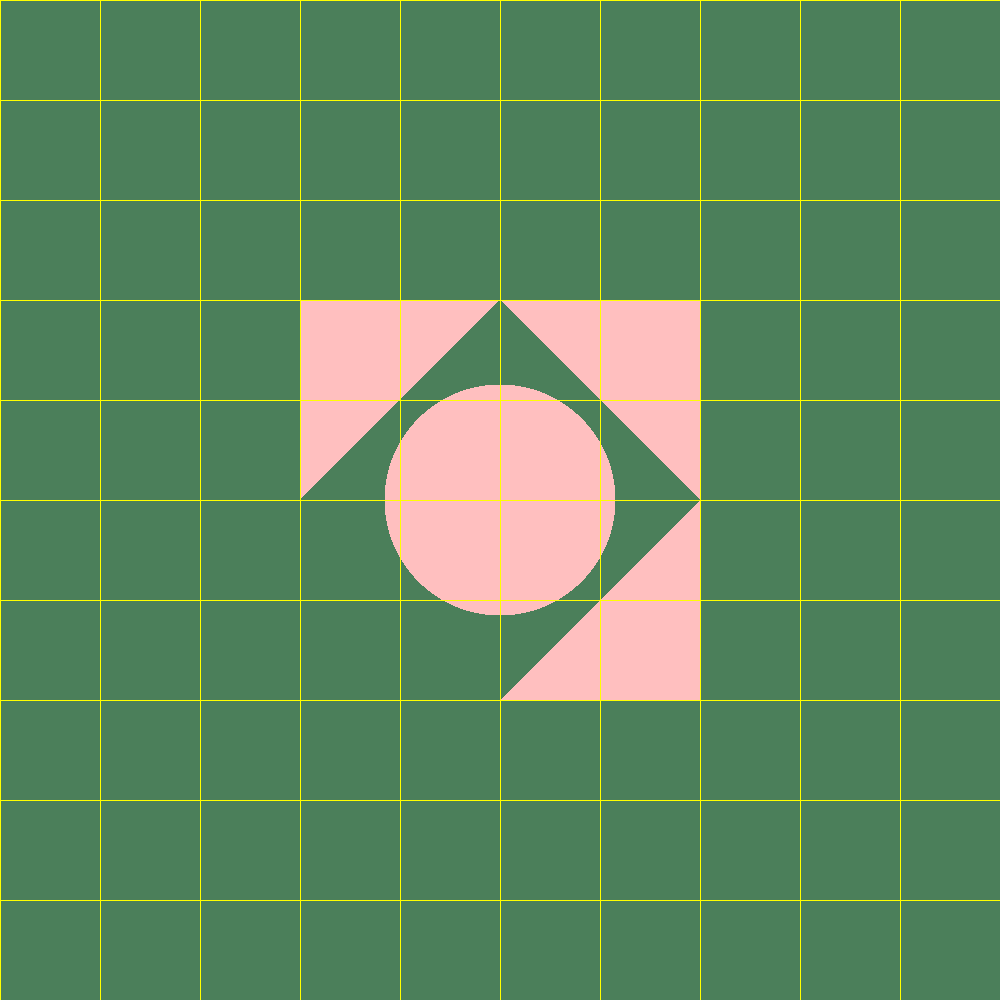
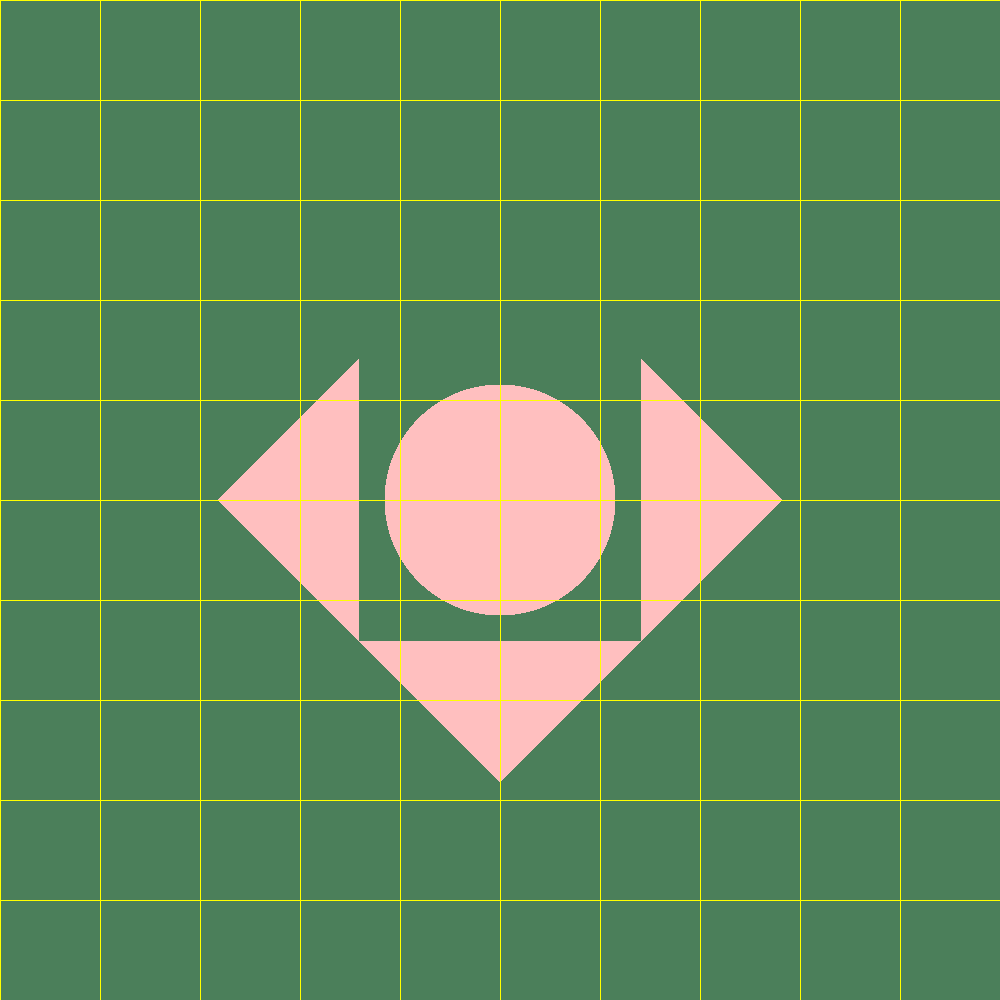
stage 6 part b + bonuses

Changed region(s): [[0.217, 0.279, 0.775, 0.775]]

diff --git a/unitTests/renderer/RenderTests.java b/unitTests/renderer/RenderTests.java
@@ -38,7 +38,7 @@ public class RenderTests {
                 new Triangle(new Point(100, 0, -100), new Point(0, -100, -100), new Point(100, -100, -100))); // down
         // right
         Camera camera = new Camera(Point.ZERO, new Vector(0, 0, -1), new Vector(0, 1, 0))
-                .rotateRight(Math.PI) //
+                .rotateRight(Math.PI/4) //
                 .setVPDistance(100) //
                 .setVPSize(500, 500) //
                 .setImageWriter(new ImageWriter("base render test", 1000, 1000))
